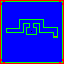
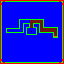
Elevators Added - Not fully Implemented Yet

Changed region(s): [[0.4688, 0.3125, 0.9062, 0.5625]]

diff --git a/Game/Assets/Code/Level.cs b/Game/Assets/Code/Level.cs
@@ -10,20 +10,33 @@ public class Level : MonoBehaviour {
 	public Transform woodSprite;
 	public Transform whiteBrickSprite;
 	public Transform elevatorSprite;
+	public Transform whiteTileSprite;
+	public Transform brickSprite;
+	public Transform usedElevatorSprite;
 
 	public Color grassColour;
 	public Color woodColour;
 	public Color whiteBrickColour;
 	public Color spawnColour;
 	public Color elevatorColour;
+	public Color whiteTileColour;
+	public Color brickColour;
+	public Color usedElevatorColour;
+	
+	private int level;
 
 	public Texture2D levelTexture;
+	public Texture2D secondLevel;
 
 	public Color[] tileColours;
 
 	public Player player;
 	public Obama obama;
 	public SecretService secretService;
+	
+	public Vector2 ElevatorPositionOne;
+	public Vector2 ElevatorPositionTwo;
+	public Vector2 ElevatorPositionThree;
 
 	void Start () {
 		/*for(int y = 0; y < levelHeight; y++)
@@ -38,6 +51,7 @@ public class Level : MonoBehaviour {
 					Instantiate(woodSprite, new Vector2(x, y), new Quaternion());
 			}
 		}*/
+		level = 1;
 
 		tileColours = new Color[levelTexture.width*levelTexture.height];
 		tileColours = levelTexture.GetPixels ();
@@ -61,6 +75,18 @@ public class Level : MonoBehaviour {
 				{
 					Instantiate(elevatorSprite, new Vector2(x, y), new Quaternion());
 				}
+				if(tileColours[x+y*levelTexture.width] == whiteTileColour)
+				{
+					Instantiate(whiteTileSprite, new Vector2(x, y), new Quaternion());
+				}
+				if(tileColours[x+y*levelTexture.width] == brickColour)
+				{
+					Instantiate(brickSprite, new Vector2(x, y), new Quaternion());
+				}
+				if(tileColours[x+y*levelTexture.width] == usedElevatorColour)
+				{
+					Instantiate(usedElevatorSprite, new Vector2(x, y), new Quaternion());
+				}
 				if(tileColours[x+y*levelTexture.width] == spawnColour)
 				{
 					Instantiate(woodSprite, new Vector2(x, y), new Quaternion());
@@ -74,5 +100,80 @@ public class Level : MonoBehaviour {
 
 	void Update () {
 	
+	}
+	
+	public void nextLevel()
+	{
+		player.transform.position = ElevatorPositionOne;
+		obama.transform.position = ElevatorPositionTwo;
+		secretService.transform.position = ElevatorPositionThree;
+		StartCoroutine(waitForLevel());
+	}
+	
+	void renderNextLevel()
+	{
+		GameObject[] objToDelete = GameObject.FindGameObjectsWithTag("LevelTiles");
+		for(int i = 0; i < objToDelete.Length; i++)
+		{
+			GameObject.Destroy(objToDelete[i].gameObject);
+		}
+		GameObject[] entitiesToDelete = GameObject.FindGameObjectsWithTag("Enemy");
+		for(int i = 0; i < entitiesToDelete.Length; i++)
+		{
+			GameObject.Destroy(entitiesToDelete[i].gameObject);
+		}
+		level++;
+		if(level == 2)
+		{
+			tileColours = new Color[secondLevel.width*secondLevel.height];
+			tileColours = secondLevel.GetPixels ();
+			for (int y = 0; y < secondLevel.height; y++)
+			{
+				for (int x = 0; x < secondLevel.width; x++)
+				{
+					if(tileColours[x+y*levelTexture.width] == grassColour)
+					{
+						Instantiate(grassSprite, new Vector2(x, y), new Quaternion());
+					}
+					if(tileColours[x+y*levelTexture.width] == whiteBrickColour)
+					{
+						Instantiate(whiteBrickSprite, new Vector2(x, y), new Quaternion());
+					}
+					if(tileColours[x+y*levelTexture.width] == woodColour)
+					{
+						Instantiate(woodSprite, new Vector2(x, y), new Quaternion());
+					}
+					if(tileColours[x+y*levelTexture.width] == elevatorColour)
+					{
+						Instantiate(elevatorSprite, new Vector2(x, y), new Quaternion());
+					}
+					if(tileColours[x+y*levelTexture.width] == whiteTileColour)
+					{
+						Instantiate(whiteTileSprite, new Vector2(x, y), new Quaternion());
+					}
+					if(tileColours[x+y*levelTexture.width] == brickColour)
+					{
+						Instantiate(brickSprite, new Vector2(x, y), new Quaternion());
+					}
+					if(tileColours[x+y*levelTexture.width] == usedElevatorColour)
+					{
+						Instantiate(usedElevatorSprite, new Vector2(x, y), new Quaternion());
+					}
+					if(tileColours[x+y*levelTexture.width] == spawnColour)
+					{
+						Instantiate(woodSprite, new Vector2(x, y), new Quaternion());
+						player.updatePos(x, y);
+						obama.updatePos(x + 1, y);
+						secretService.updatePos(x + 2, y);
+					}
+				}
+			}
+		}
+	}
+	
+	IEnumerator waitForLevel()
+	{
+		yield return new WaitForSeconds(5);
+		renderNextLevel();
 	}
 }

diff --git a/Game/Assets/Code/Entity/Player/SecretService.cs b/Game/Assets/Code/Entity/Player/SecretService.cs
@@ -13,22 +13,22 @@ public class SecretService : Entity {
 	
 	void Update () 
 	{
-		if (player.rigidbody2D.transform.position.y > (rigidbody2D.transform.position.y + 1.5))
+		if (player.rigidbody2D.transform.position.y > (rigidbody2D.transform.position.y + 1))
 		{
 			rigidbody2D.transform.position += Vector3.up * Time.deltaTime * speed;
 			dir = 0;
 		}
-		if (player.rigidbody2D.transform.position.y < (rigidbody2D.transform.position.y - 1.5))
+		if (player.rigidbody2D.transform.position.y < (rigidbody2D.transform.position.y - 1))
 		{
 			rigidbody2D.rigidbody2D.transform.position += Vector3.down * Time.deltaTime * speed;
 			dir = 1;
 		}
-		if (player.rigidbody2D.transform.position.x > (rigidbody2D.transform.position.x + 1.5))
+		if (player.rigidbody2D.transform.position.x > (rigidbody2D.transform.position.x + 1.2))
 		{
 			rigidbody2D.transform.position += Vector3.right * Time.deltaTime * speed;
 			dir = 2;
 		}
-		if (player.rigidbody2D.transform.position.x < (rigidbody2D.transform.position.x - 1.5))
+		if (player.rigidbody2D.transform.position.x < (rigidbody2D.transform.position.x - 1.2))
 		{
 			rigidbody2D.transform.position += Vector3.left * Time.deltaTime * speed;
 			dir = 3;

diff --git a/Game/Assets/Code/Entity/Player/Obama.cs b/Game/Assets/Code/Entity/Player/Obama.cs
@@ -13,22 +13,22 @@ public class Obama : Entity {
 
 	void Update () 
 	{
-		if (player.rigidbody2D.transform.position.y > (rigidbody2D.transform.position.y + 1.5))
+		if (player.rigidbody2D.transform.position.y > (rigidbody2D.transform.position.y + 1))
 		{
 			rigidbody2D.transform.position += Vector3.up * Time.deltaTime * speed;
 			dir = 0;
 		}
-		if (player.rigidbody2D.transform.position.y < (rigidbody2D.transform.position.y - 1.5))
+		if (player.rigidbody2D.transform.position.y < (rigidbody2D.transform.position.y - 1))
 		{
 			rigidbody2D.rigidbody2D.transform.position += Vector3.down * Time.deltaTime * speed;
 			dir = 1;
 		}
-		if (player.rigidbody2D.transform.position.x > (rigidbody2D.transform.position.x + 1.5))
+		if (player.rigidbody2D.transform.position.x > (rigidbody2D.transform.position.x + 1.25))
 		{
 			rigidbody2D.transform.position += Vector3.right * Time.deltaTime * speed;
 			dir = 2;
 		}
-		if (player.rigidbody2D.transform.position.x < (rigidbody2D.transform.position.x - 1.5))
+		if (player.rigidbody2D.transform.position.x < (rigidbody2D.transform.position.x - 1.25))
 		{
 			rigidbody2D.transform.position += Vector3.left * Time.deltaTime * speed;
 			dir = 3;

diff --git a/Game/Assets/Code/Entity/Player/Player.cs b/Game/Assets/Code/Entity/Player/Player.cs
@@ -2,7 +2,9 @@
 using System.Collections;
 
 public class Player : Entity {
-
+	
+	public Level level;
+	
 	void Start () 
 	{
 		this.x = transform.position.x;
@@ -41,5 +43,10 @@ public class Player : Entity {
 		else if (dir == 3)
 			spriteRenderer.sprite = right;
 		Physics2D.IgnoreLayerCollision(9, 8, true);
+		
+		if(Input.GetKeyDown(KeyCode.Space))
+		{
+			level.nextLevel();
+		}
 	}
 }

diff --git a/Game/Assets/Code/Elevator.cs b/Game/Assets/Code/Elevator.cs
@@ -1,0 +1,15 @@
+using UnityEngine;
+using System.Collections;
+
+public class Elevator : MonoBehaviour {
+
+	// Use this for initialization
+	void Start () {
+	
+	}
+	
+	// Update is called once per frame
+	void Update () {
+	
+	}
+}
